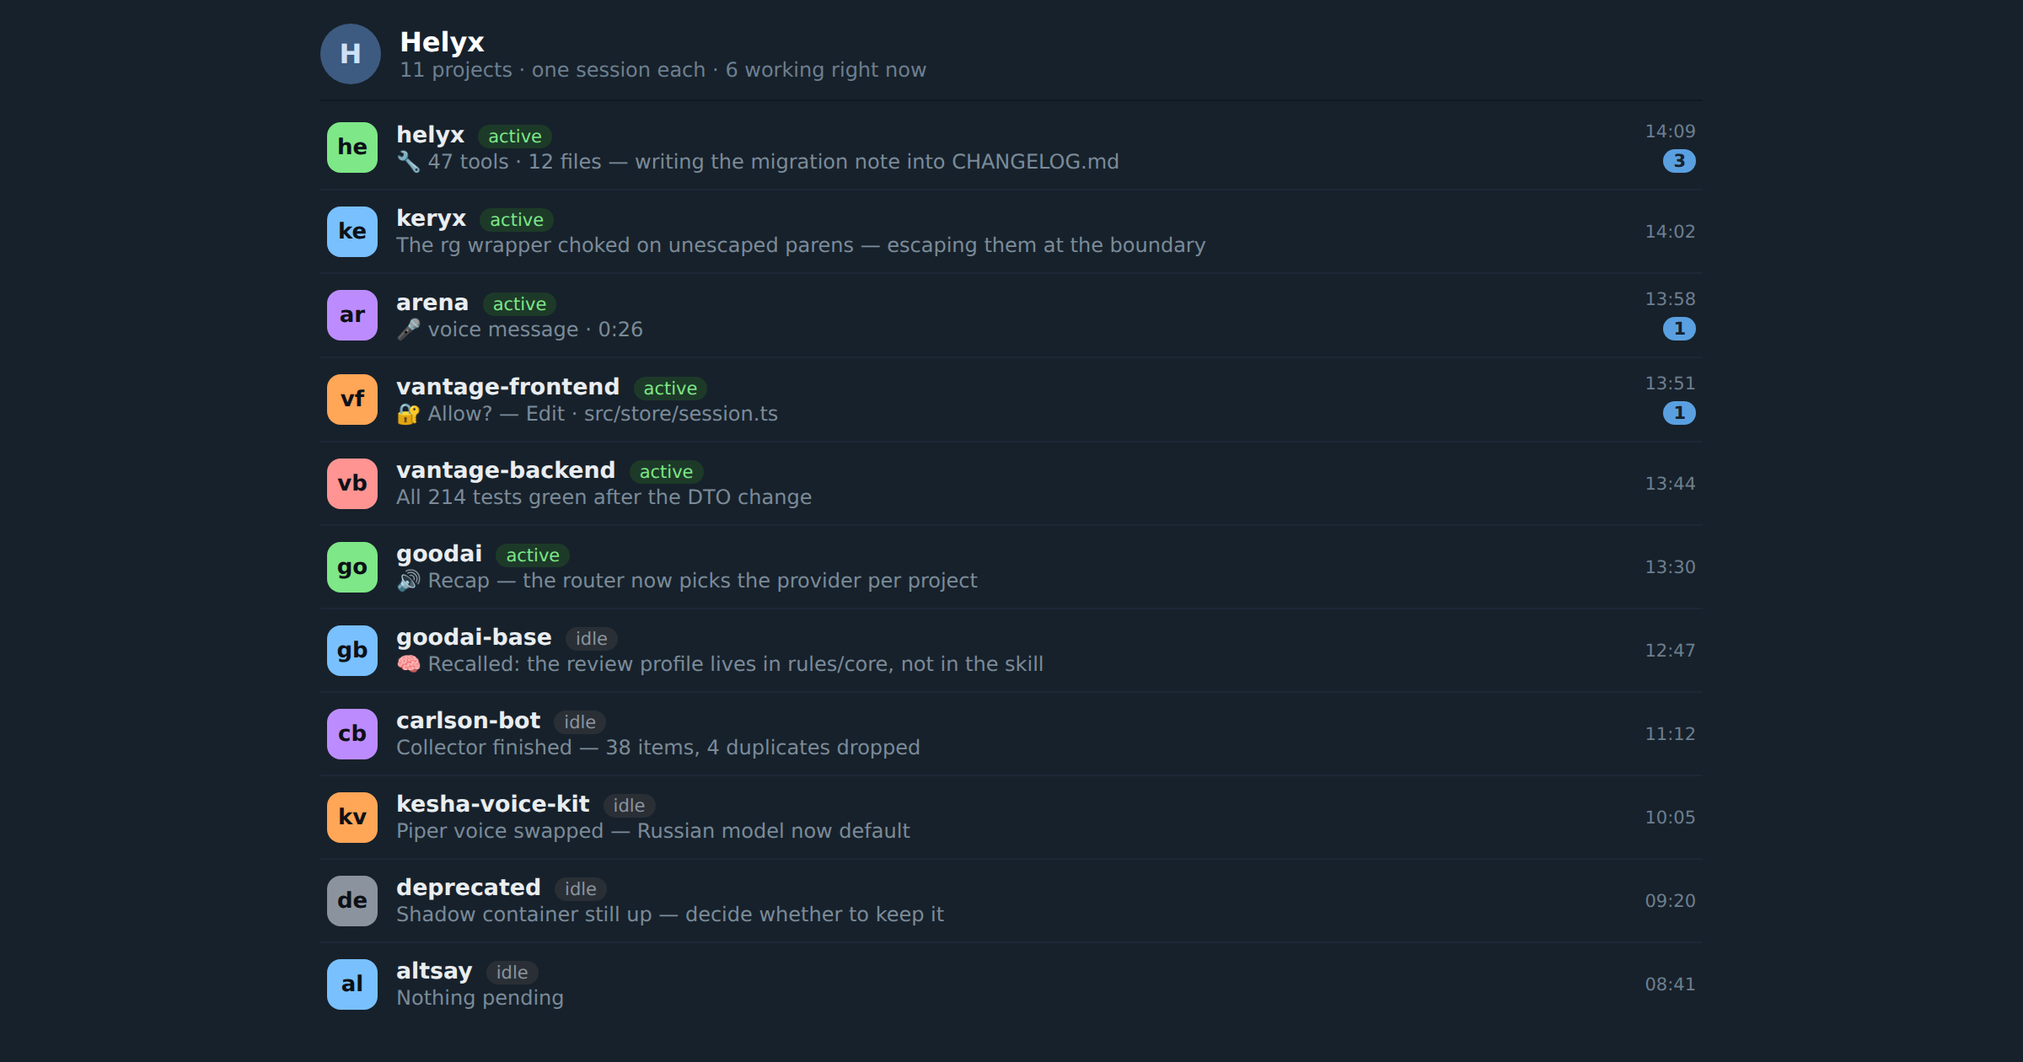
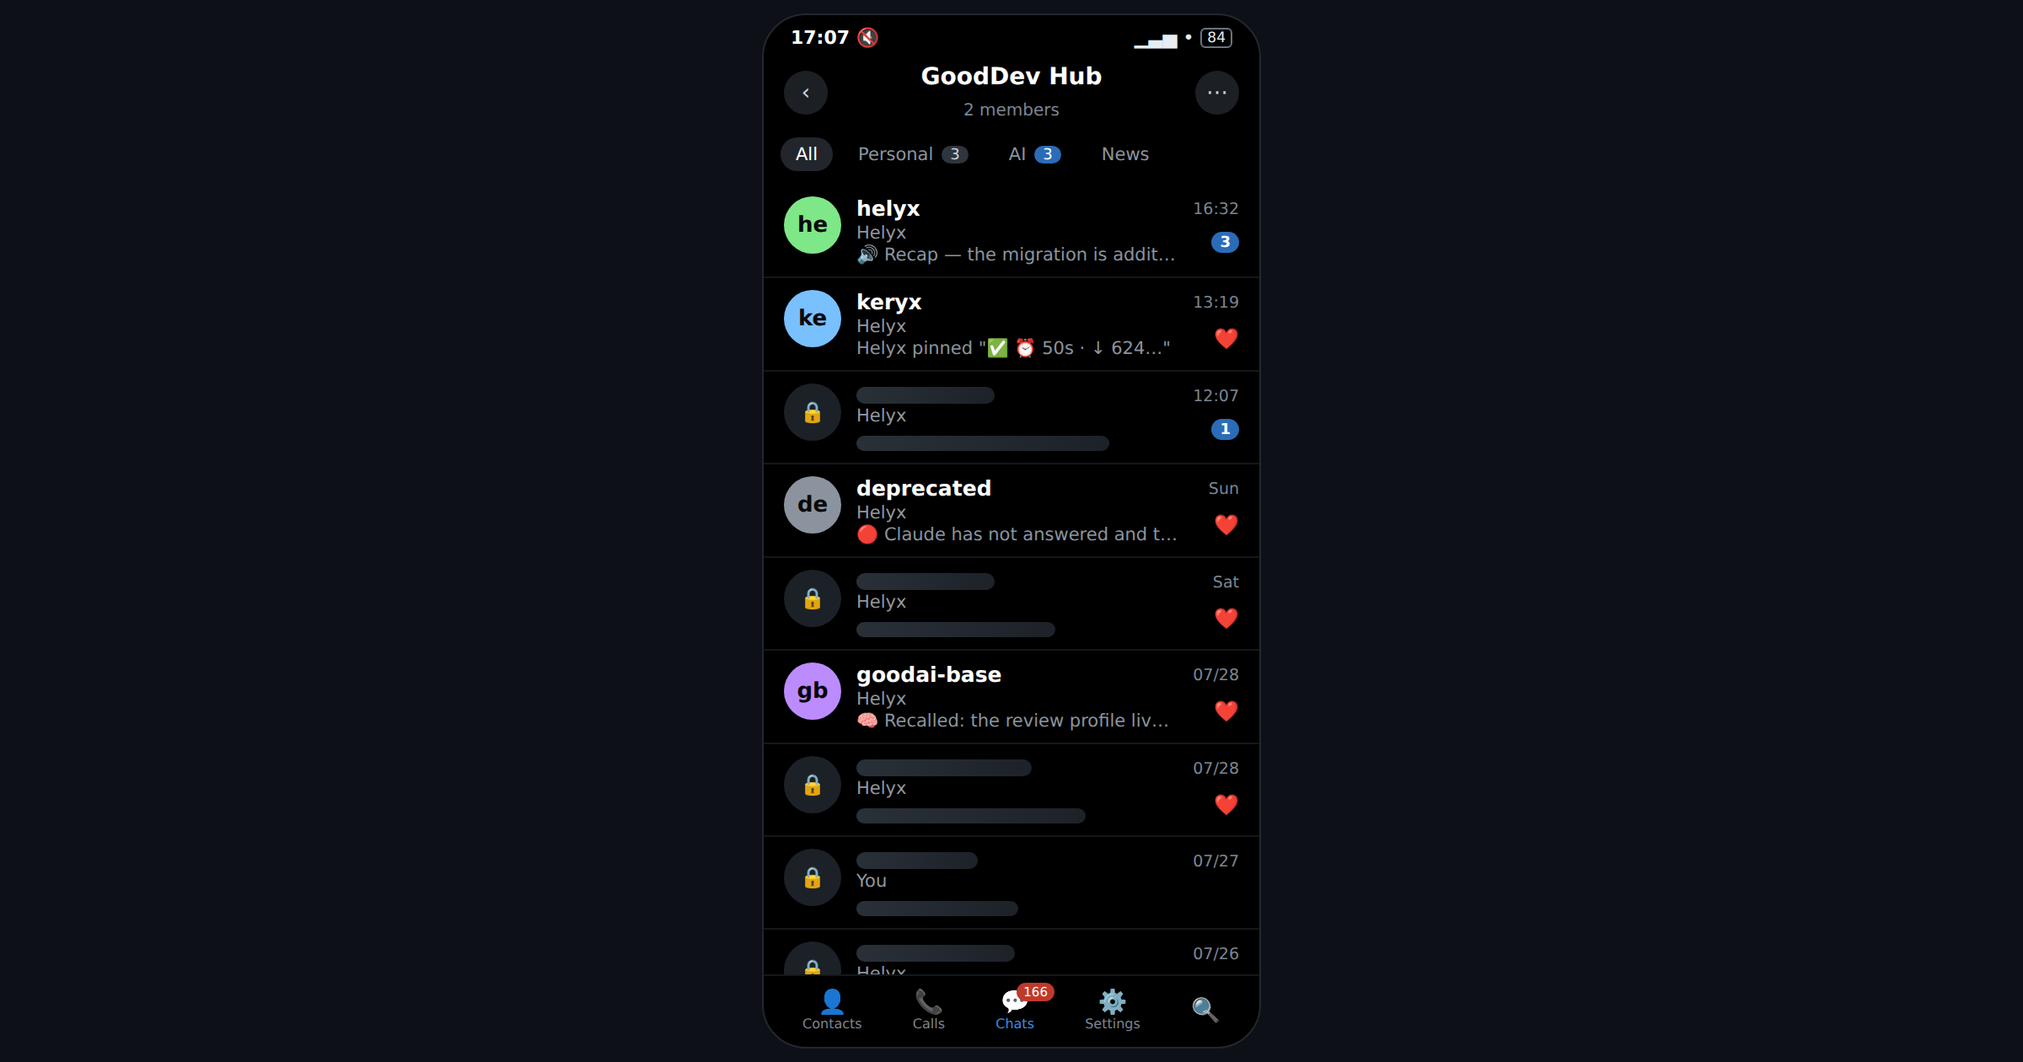
content: the forum list as it actually looks, minus the names that cannot ship
Redrawn against a real screenshot: mobile Telegram on black, the sender line
under each topic name, reaction hearts and unread badges on the right, filter
tabs, the bottom bar. The previous version was a desktop list invented from
memory and looked like one.

Only four projects may be named in public. The rest keep their rows — their
timestamps, their reactions, their place in the order — and lose their names to
a redaction bar. The count the post opens on stays true, nothing private
leaves the room, and no project name is invented to fill a gap, which would be
the one thing worse than a blank in a frame claiming to be the real interface.

The allowed list is written down in the README so the next frame does not have
to rediscover it. 01-architecture's host card was corrected to match.

diff --git a/content/linkedin/assets/src/06-projects.html b/content/linkedin/assets/src/06-projects.html
@@ -1,113 +1,144 @@
 <!doctype html>
 <html><head><meta charset="utf-8"><link rel="stylesheet" href="_base.css"><style>
-  /* The opening line of the story post — eleven projects, one chat — as the
-     forum list it actually is. One topic per project, each with its own live
-     session, so the "switch by scrolling" claim is visible rather than stated. */
-  body { padding:0; background:#17212b; display:block; }
-  .wrap { width:1200px; height:630px; padding:14px 190px; display:flex; flex-direction:column; overflow:hidden; }
+  /* The forum list, drawn to match a real screenshot of it: mobile Telegram,
+     OLED black, topic rows with the sender line and the last message under the
+     name, hearts and unread badges on the right.
+     Only four projects may be named publicly, so the rest keep their rows and
+     lose their names. The count in the post stays true and nothing private
+     leaves the room. */
+  body { padding:0; background:#0d1117; display:flex; align-items:center; justify-content:center; }
 
-  .tbar { display:flex; align-items:center; gap:11px; padding-bottom:9px; border-bottom:1px solid #101921; margin-bottom:3px; }
-  .av { width:36px; height:36px; border-radius:50%; background:#3d5a80; display:flex; align-items:center; justify-content:center; font-size:16px; font-weight:600; color:#cfe0f5; }
-  .tname { font-size:16px; font-weight:600; color:#fff; }
-  .tsub { font-size:12px; color:#6d7f8f; }
+  .phone {
+    width:296px; height:614px; background:#000; border-radius:26px;
+    border:1px solid #23272e; overflow:hidden; display:flex; flex-direction:column;
+    font-family:-apple-system,"Segoe UI",Roboto,"Helvetica Neue",Arial,sans-serif;
+  }
 
-  .row { display:flex; align-items:center; gap:11px; padding:9px 4px; border-bottom:1px solid #1c2836; }
-  .row:last-child { border-bottom:none; }
-  .ic { width:30px; height:30px; border-radius:8px; flex:none; display:flex; align-items:center; justify-content:center; font-size:13px; font-weight:600; color:#0d1117; }
-  .body { flex:1; min-width:0; }
-  .top { display:flex; align-items:baseline; gap:8px; }
-  .nm { font-size:13.4px; font-weight:600; color:#e9edf0; }
-  .st { font-size:10.5px; padding:1px 6px; border-radius:20px; background:#1d3a29; color:#7ee787; }
-  .st.idle { background:#2a2f36; color:#8b949e; }
-  .prev { font-size:12px; color:#7b8b99; white-space:nowrap; overflow:hidden; text-overflow:ellipsis; margin-top:1px; }
-  .right { text-align:right; flex:none; }
-  .tm { font-size:10.5px; color:#6d7f8f; }
-  .badge { display:inline-block; margin-top:3px; min-width:19px; padding:1px 6px; border-radius:20px; background:#5aa0e0; color:#17212b; font-size:10.5px; font-weight:600; text-align:center; }
+  .sbar { display:flex; justify-content:space-between; align-items:center; padding:7px 16px 3px; font-size:11px; color:#fff; font-weight:600; }
+  .sbar .r { display:flex; align-items:center; gap:4px; font-weight:500; color:#e6edf3; }
+  .batt { border:1px solid #6a7480; border-radius:3px; padding:0 3px; font-size:8.5px; }
+
+  .hdr { display:flex; align-items:center; gap:10px; padding:5px 12px 9px; }
+  .circ { width:26px; height:26px; border-radius:50%; background:#1c1f24; color:#c9d1d9; display:flex; align-items:center; justify-content:center; font-size:13px; flex:none; }
+  .htxt { flex:1; text-align:center; }
+  .htxt b { display:block; font-size:14px; color:#fff; }
+  .htxt span { font-size:10px; color:#7d8590; }
+
+  .tabs { display:flex; gap:6px; padding:0 10px 8px; }
+  .tab { font-size:10.5px; color:#8b949e; padding:4px 9px; border-radius:12px; display:flex; align-items:center; gap:5px; white-space:nowrap; }
+  .tab.on { background:#22262c; color:#fff; }
+  .pill { background:#2f353d; color:#c9d1d9; border-radius:9px; padding:0 5px; font-size:9px; }
+  .pill.b { background:#2b6cb8; color:#fff; }
+
+  .list { flex:1; overflow:hidden; }
+  .row { display:flex; gap:9px; padding:7px 12px; border-bottom:1px solid #14171b; align-items:flex-start; }
+  .ic { width:34px; height:34px; border-radius:50%; flex:none; display:flex; align-items:center; justify-content:center; font-size:13px; font-weight:700; color:#08090b; }
+  .mid { flex:1; min-width:0; }
+  .nm { font-size:12.5px; font-weight:600; color:#fff; }
+  .from { font-size:10.5px; color:#9198a1; margin-top:1px; }
+  .prev { font-size:10.5px; color:#8b949e; margin-top:1px; white-space:nowrap; overflow:hidden; text-overflow:ellipsis; }
+  .rt { flex:none; text-align:right; padding-top:2px; }
+  .tm { font-size:9.5px; color:#7d8590; }
+  .hrt { font-size:12px; margin-top:9px; }
+  .bdg { display:inline-block; margin-top:8px; min-width:16px; padding:1px 5px; border-radius:9px; background:#2b6cb8; color:#fff; font-size:9px; font-weight:600; text-align:center; }
+
+  /* redacted: the row stays, the name does not */
+  .bar { height:9px; border-radius:5px; background:linear-gradient(90deg,#2a3038,#1d2229); }
+  .bar.n { width:82px; margin-top:2px; height:10px; }
+  .bar.p { width:150px; margin-top:6px; }
+  .ic.hid { background:#1c2128; color:#3f4750; font-size:12px; font-weight:400; }
+
+  .nav { display:flex; align-items:center; justify-content:space-around; padding:7px 8px 9px; border-top:1px solid #14171b; }
+  .nv { text-align:center; color:#7d8590; font-size:8px; position:relative; }
+  .nv .g { font-size:14px; display:block; }
+  .nv.on { color:#3b8ee0; }
+  .cnt { position:absolute; top:-3px; right:-12px; background:#c0392b; color:#fff; border-radius:8px; font-size:7.5px; padding:1px 4px; }
 </style></head><body>
-  <div class="wrap">
-    <div class="tbar">
-      <div class="av">H</div>
-      <div>
-        <div class="tname">Helyx</div>
-        <div class="tsub"><span data-lang="en">11 projects &middot; one session each &middot; 6 working right now</span><span data-lang="ru">11 проектов &middot; по сессии на каждый &middot; 6 работают прямо сейчас</span></div>
+  <div class="phone">
+    <div class="sbar">
+      <span>17:07 &#128263;</span>
+      <span class="r">&#9601;&#9603;&#9605; &#8226; <span class="batt">84</span></span>
+    </div>
+
+    <div class="hdr">
+      <div class="circ">&#8249;</div>
+      <div class="htxt"><b>GoodDev Hub</b><span data-lang="en">2 members</span><span data-lang="ru">2 участника</span></div>
+      <div class="circ">&#8943;</div>
+    </div>
+
+    <div class="tabs">
+      <div class="tab on">All</div>
+      <div class="tab">Personal <span class="pill">3</span></div>
+      <div class="tab">AI <span class="pill b">3</span></div>
+      <div class="tab">News</div>
+    </div>
+
+    <div class="list">
+      <div class="row">
+        <div class="ic" style="background:#7ee787">he</div>
+        <div class="mid"><div class="nm">helyx</div><div class="from">Helyx</div>
+          <div class="prev">&#128266; <span data-lang="en">Recap &mdash; the migration is additive now</span><span data-lang="ru">Пересказ — миграция теперь аддитивная</span></div></div>
+        <div class="rt"><div class="tm">16:32</div><div class="bdg">3</div></div>
+      </div>
+
+      <div class="row">
+        <div class="ic" style="background:#79c0ff">ke</div>
+        <div class="mid"><div class="nm">keryx</div><div class="from">Helyx</div>
+          <div class="prev">Helyx pinned "&#9989; &#9200; 50s &middot; &#8595; 624&hellip;"</div></div>
+        <div class="rt"><div class="tm">13:19</div><div class="hrt">&#10084;&#65039;</div></div>
+      </div>
+
+      <div class="row">
+        <div class="ic hid">&#128274;</div>
+        <div class="mid"><div class="bar n"></div><div class="from">Helyx</div><div class="bar p"></div></div>
+        <div class="rt"><div class="tm">12:07</div><div class="bdg">1</div></div>
+      </div>
+
+      <div class="row">
+        <div class="ic" style="background:#8b949e">de</div>
+        <div class="mid"><div class="nm">deprecated</div><div class="from">Helyx</div>
+          <div class="prev">&#128308; <span data-lang="en">Claude has not answered and tmux is silent for 30&hellip;</span><span data-lang="ru">Claude не отвечает и tmux молчит уже 30…</span></div></div>
+        <div class="rt"><div class="tm">Sun</div><div class="hrt">&#10084;&#65039;</div></div>
+      </div>
+
+      <div class="row">
+        <div class="ic hid">&#128274;</div>
+        <div class="mid"><div class="bar n"></div><div class="from">Helyx</div><div class="bar p" style="width:118px"></div></div>
+        <div class="rt"><div class="tm">Sat</div><div class="hrt">&#10084;&#65039;</div></div>
+      </div>
+
+      <div class="row">
+        <div class="ic" style="background:#bc8cff">gb</div>
+        <div class="mid"><div class="nm">goodai-base</div><div class="from">Helyx</div>
+          <div class="prev">&#129504; <span data-lang="en">Recalled: the review profile lives in rules/core</span><span data-lang="ru">Вспомнил: профиль ревью лежит в rules/core</span></div></div>
+        <div class="rt"><div class="tm">07/28</div><div class="hrt">&#10084;&#65039;</div></div>
+      </div>
+
+      <div class="row">
+        <div class="ic hid">&#128274;</div>
+        <div class="mid"><div class="bar n" style="width:104px"></div><div class="from">Helyx</div><div class="bar p" style="width:136px"></div></div>
+        <div class="rt"><div class="tm">07/28</div><div class="hrt">&#10084;&#65039;</div></div>
+      </div>
+
+      <div class="row">
+        <div class="ic hid">&#128274;</div>
+        <div class="mid"><div class="bar n" style="width:72px"></div><div class="from">You</div><div class="bar p" style="width:96px"></div></div>
+        <div class="rt"><div class="tm">07/27</div></div>
+      </div>
+
+      <div class="row">
+        <div class="ic hid">&#128274;</div>
+        <div class="mid"><div class="bar n" style="width:94px"></div><div class="from">Helyx</div><div class="bar p" style="width:126px"></div></div>
+        <div class="rt"><div class="tm">07/26</div><div class="hrt">&#10084;&#65039;</div></div>
       </div>
     </div>
 
-    <div class="row">
-      <div class="ic" style="background:#7ee787">he</div>
-      <div class="body"><div class="top"><span class="nm">helyx</span><span class="st">active</span></div>
-        <div class="prev"><span data-lang="en">🔧 47 tools · 12 files — writing the migration note into CHANGELOG.md</span><span data-lang="ru">🔧 47 tools · 12 files — пишу запись о миграции в CHANGELOG.md</span></div></div>
-      <div class="right"><div class="tm">14:09</div><div class="badge">3</div></div>
-    </div>
-
-    <div class="row">
-      <div class="ic" style="background:#79c0ff">ke</div>
-      <div class="body"><div class="top"><span class="nm">keryx</span><span class="st">active</span></div>
-        <div class="prev"><span data-lang="en">The rg wrapper choked on unescaped parens — escaping them at the boundary</span><span data-lang="ru">Обёртка над rg спотыкалась о неэкранированные скобки — экранирую на границе</span></div></div>
-      <div class="right"><div class="tm">14:02</div></div>
-    </div>
-
-    <div class="row">
-      <div class="ic" style="background:#bc8cff">ar</div>
-      <div class="body"><div class="top"><span class="nm">arena</span><span class="st">active</span></div>
-        <div class="prev"><span data-lang="en">🎤 voice message · 0:26</span><span data-lang="ru">🎤 голосовое · 0:26</span></div></div>
-      <div class="right"><div class="tm">13:58</div><div class="badge">1</div></div>
-    </div>
-
-    <div class="row">
-      <div class="ic" style="background:#ffa657">vf</div>
-      <div class="body"><div class="top"><span class="nm">vantage-frontend</span><span class="st">active</span></div>
-        <div class="prev"><span data-lang="en">🔐 Allow? — Edit · src/store/session.ts</span><span data-lang="ru">🔐 Allow? — Edit · src/store/session.ts</span></div></div>
-      <div class="right"><div class="tm">13:51</div><div class="badge">1</div></div>
-    </div>
-
-    <div class="row">
-      <div class="ic" style="background:#ff9492">vb</div>
-      <div class="body"><div class="top"><span class="nm">vantage-backend</span><span class="st">active</span></div>
-        <div class="prev"><span data-lang="en">All 214 tests green after the DTO change</span><span data-lang="ru">Все 214 тестов зелёные после правки DTO</span></div></div>
-      <div class="right"><div class="tm">13:44</div></div>
-    </div>
-
-    <div class="row">
-      <div class="ic" style="background:#7ee787">go</div>
-      <div class="body"><div class="top"><span class="nm">goodai</span><span class="st">active</span></div>
-        <div class="prev"><span data-lang="en">🔊 Recap — the router now picks the provider per project</span><span data-lang="ru">🔊 Пересказ — роутер теперь выбирает провайдера по проекту</span></div></div>
-      <div class="right"><div class="tm">13:30</div></div>
-    </div>
-
-    <div class="row">
-      <div class="ic" style="background:#79c0ff">gb</div>
-      <div class="body"><div class="top"><span class="nm">goodai-base</span><span class="st idle">idle</span></div>
-        <div class="prev"><span data-lang="en">🧠 Recalled: the review profile lives in rules/core, not in the skill</span><span data-lang="ru">🧠 Вспомнил: профиль ревью лежит в rules/core, а не в скилле</span></div></div>
-      <div class="right"><div class="tm">12:47</div></div>
-    </div>
-
-    <div class="row">
-      <div class="ic" style="background:#bc8cff">cb</div>
-      <div class="body"><div class="top"><span class="nm">carlson-bot</span><span class="st idle">idle</span></div>
-        <div class="prev"><span data-lang="en">Collector finished — 38 items, 4 duplicates dropped</span><span data-lang="ru">Сборщик закончил — 38 материалов, 4 дубля отброшено</span></div></div>
-      <div class="right"><div class="tm">11:12</div></div>
-    </div>
-
-    <div class="row">
-      <div class="ic" style="background:#ffa657">kv</div>
-      <div class="body"><div class="top"><span class="nm">kesha-voice-kit</span><span class="st idle">idle</span></div>
-        <div class="prev"><span data-lang="en">Piper voice swapped — Russian model now default</span><span data-lang="ru">Голос Piper заменён — русская модель теперь по умолчанию</span></div></div>
-      <div class="right"><div class="tm">10:05</div></div>
-    </div>
-
-    <div class="row">
-      <div class="ic" style="background:#8b949e">de</div>
-      <div class="body"><div class="top"><span class="nm">deprecated</span><span class="st idle">idle</span></div>
-        <div class="prev"><span data-lang="en">Shadow container still up — decide whether to keep it</span><span data-lang="ru">Теневой контейнер ещё поднят — решить, оставлять ли</span></div></div>
-      <div class="right"><div class="tm">09:20</div></div>
-    </div>
-
-    <div class="row">
-      <div class="ic" style="background:#79c0ff">al</div>
-      <div class="body"><div class="top"><span class="nm">altsay</span><span class="st idle">idle</span></div>
-        <div class="prev"><span data-lang="en">Nothing pending</span><span data-lang="ru">Ничего не ждёт</span></div></div>
-      <div class="right"><div class="tm">08:41</div></div>
+    <div class="nav">
+      <div class="nv"><span class="g">&#128100;</span>Contacts</div>
+      <div class="nv"><span class="g">&#128222;</span>Calls</div>
+      <div class="nv on"><span class="g">&#128172;</span>Chats<span class="cnt">166</span></div>
+      <div class="nv"><span class="g">&#9881;&#65039;</span>Settings</div>
+      <div class="nv"><span class="g">&#128269;</span></div>
     </div>
   </div>
 

diff --git a/content/linkedin/assets/src/01-architecture.html b/content/linkedin/assets/src/01-architecture.html
@@ -88,7 +88,7 @@
           <span data-lang="ru">Твоя машина</span>
         </div>
         <div class="li">
-          <span class="mono">helyx</span> &middot; <span class="mono">keryx</span> &middot; <span class="mono">arena</span> &middot; <span class="mono">vantage</span><br>
+          <span class="mono">helyx</span> &middot; <span class="mono">keryx</span> &middot; <span class="mono">goodai-base</span><br>
           <span data-lang="en">Nothing leaves the host.</span>
           <span data-lang="ru">Ничего не покидает хост.</span>
         </div>

diff --git a/content/linkedin/README.md b/content/linkedin/README.md
@@ -39,15 +39,16 @@ re-encoding.
 | `03-telegram` | A topic mid-turn: voice in, live status, answer, spoken recap |
 | `04-numbers` | Counts taken from the repository, and the stack |
 | `05-control` | Memory recalled unprompted, and a tool call refused from the phone |
-| `06-projects` | The forum list — eleven projects, one live session each |
+| `06-projects` | The forum list on a phone — four projects named, the rest redacted |
 
 ### The carousel for the first post
 
 `02-story` opens on eleven projects and a lost context, so it ships as three
 frames in this order:
 
-1. `06-projects` — the claim in the first line, made visible. Eleven topics, one
-   session each, six of them working while nobody is looking.
+1. `06-projects` — the claim in the first line, made visible. The forum list as
+   it appears on a phone: a topic per project, the last message under each one,
+   unread counts and reactions.
 2. `03-telegram` — one of them opened: a question asked by voice, the work
    visible as it happens, the answer, and the spoken recap.
 3. `05-control` — the two things that are not a chat wrapper: memory recalled
@@ -70,12 +71,27 @@ its `✅ Yes / ✅ Always / ❌ No` row all follow what `utils/status-render.ts`
 `channel/tools.ts` and `channel/permissions.ts` actually render — but the
 conversations in them are written.
 
-**A real screenshot beats all three at launch**, even a scruffier one: an
+`06-projects` is drawn against a real screenshot of the forum, so the layout,
+the sender line under each topic name, the reaction hearts, the unread badges,
+the filter tabs and the bottom bar are all where they actually sit.
+
+**A real screenshot still beats a drawing at launch**, even a scruffier one: an
 audience can tell the difference, and a drawn interface invites the question of
-what else was drawn. Take one from a live topic and put it beside these; the
-mockups are the fallback for frames a screenshot cannot stage, not the preferred
-option. Whatever you do, do not caption a mockup as a screenshot — the honesty
-is worth more than the polish.
+what else was drawn. The mockups are the fallback for frames a screenshot cannot
+be published as — which, here, is most of them. Whatever you do, do not caption
+a mockup as a screenshot; the honesty is worth more than the polish.
+
+### Which project names may appear
+
+Only **`helyx`, `keryx`, `deprecated`, `goodai-base`**. Every other topic in the
+forum belongs to work that cannot be named publicly, so in `06-projects` those
+rows keep their place, their timestamps and their reactions, and lose their
+names to a redaction bar. Nothing is invented to fill the gap: a made-up project
+name in a frame that claims to be the real interface is the one thing worse than
+a blank.
+
+Check this list before adding a name to any frame. `01-architecture` names three
+of the four on its host card for the same reason.
 
 ## Re-rendering
 
